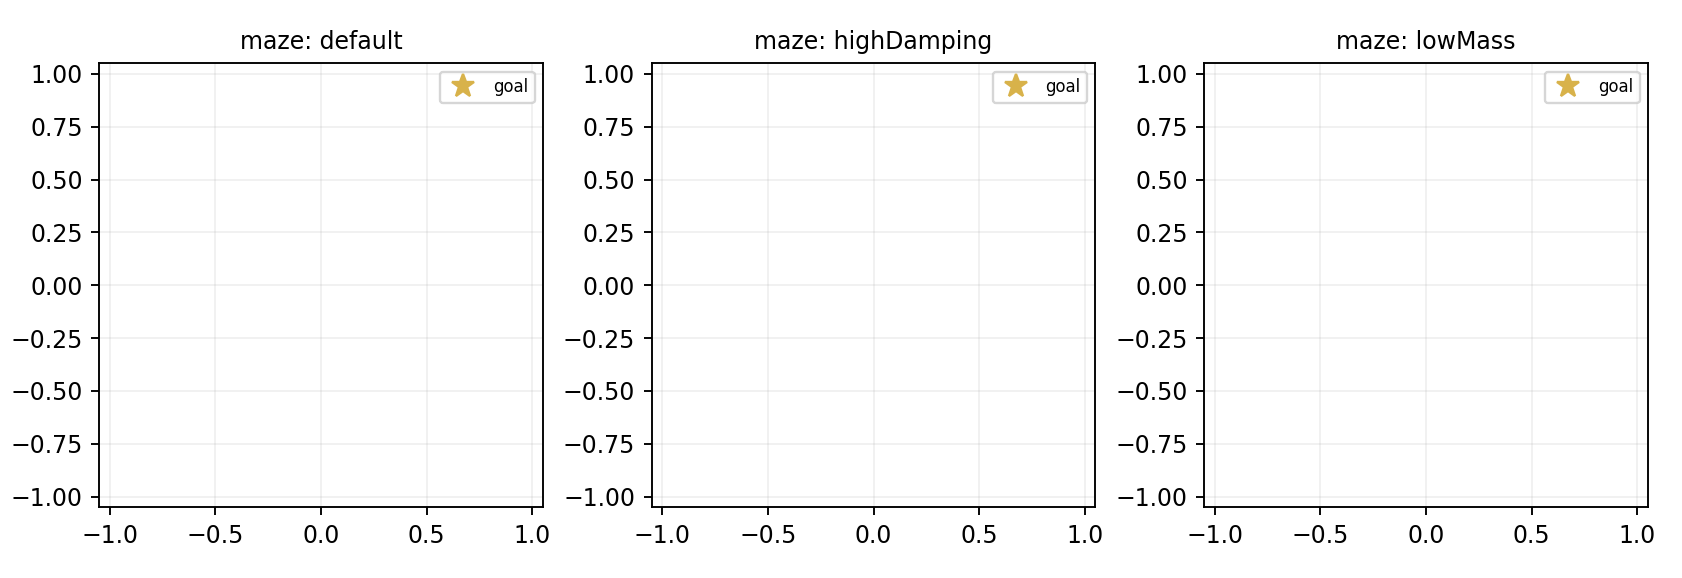
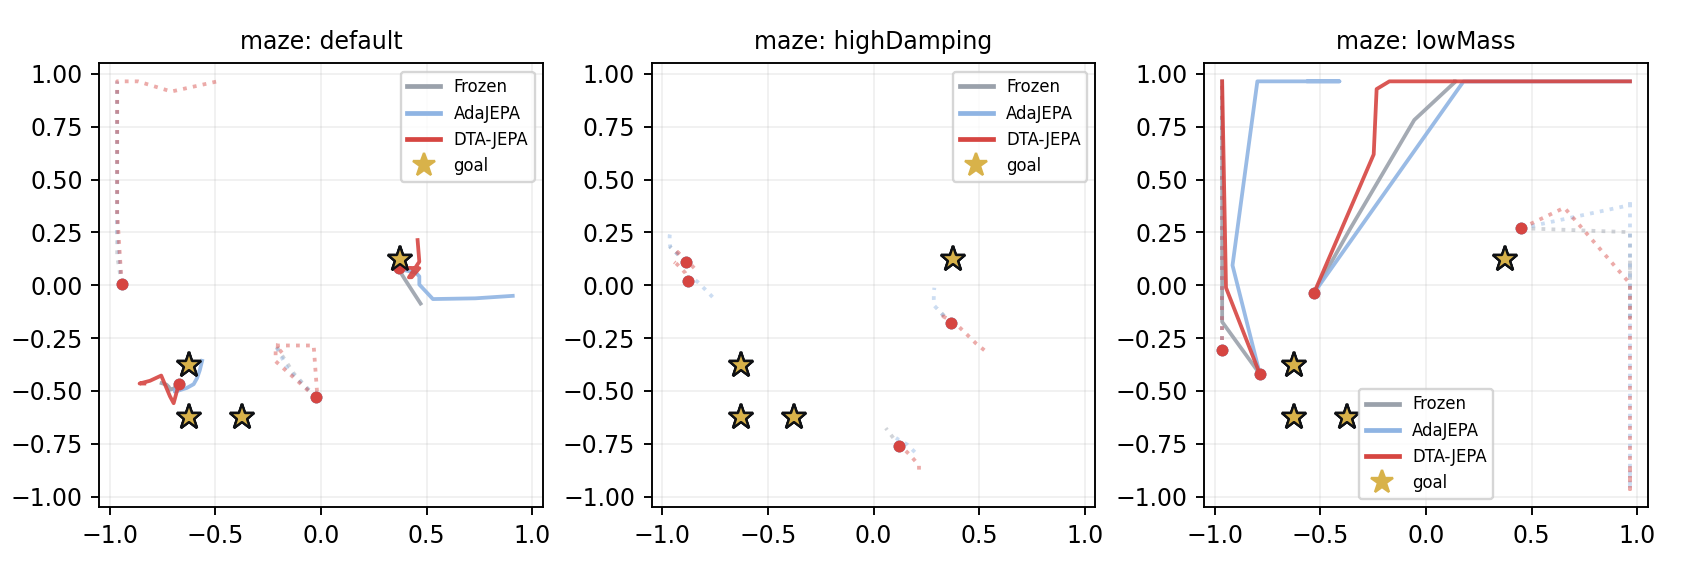
page: light palette by default with dark under prefers-color-scheme (matches reference); fix traj figure method parsing; note the genuine zero category

diff --git a/docs/index.html b/docs/index.html
@@ -6,21 +6,24 @@
 <title>DTA-JEPA · Dual-Timescale Recursive Adaptive Latent World Models</title>
 <meta name="description" content="Uncertainty-allocated test-time adaptation for latent world models, with persistent memory and a safety layer.">
 <style>
-:root{--bg:#0f1114;--panel:#16191d;--panel2:#16191d;--ink:#eceef1;--muted:#9aa1ab;
---line:#282d34;--accent:#8fb4e3;--accent-ink:#0f1114;--soft:#17212c;
---shadow:0 18px 40px rgba(0,0,0,.5);
+:root{--bg:#f4f4f2;--panel:#fdfdfc;--panel2:#fdfdfc;--ink:#15171b;--muted:#575c65;
+--line:#dcdcd6;--accent:#1d4e89;--accent-ink:#f4f4f2;--soft:#e9eef4;
+--shadow:0 18px 40px rgba(21,23,27,.08);
 --sans:-apple-system,BlinkMacSystemFont,"Segoe UI",Roboto,"Helvetica Neue",Arial,sans-serif;
 --serif:"Iowan Old Style",Palatino,"Palatino Linotype",Georgia,serif;
 --mono:ui-monospace,SFMono-Regular,Menlo,Consolas,monospace;
 /* aliases used by the rest of this sheet */
 --fg:var(--ink);--dim:var(--muted);--acc:var(--accent);--acc2:var(--accent);--ok:var(--accent);}
+@media (prefers-color-scheme: dark){:root{--bg:#0f1114;--panel:#16191d;--panel2:#16191d;
+--ink:#eceef1;--muted:#9aa1ab;--line:#282d34;--accent:#8fb4e3;--accent-ink:#0f1114;
+--soft:#17212c;--shadow:0 18px 40px rgba(0,0,0,.5);}}
 *{box-sizing:border-box}
 body{margin:0;background:var(--bg);color:var(--ink);font-family:var(--sans);
 font-size:16.5px;line-height:1.62;-webkit-font-smoothing:antialiased}
 a{color:var(--accent);text-decoration:none;border-bottom:1px solid rgba(143,180,227,.35)}
 a:hover{color:var(--ink);border-bottom-color:var(--accent)}
 header{padding:56px 24px 32px;border-bottom:1px solid var(--line);
-background:radial-gradient(900px 320px at 18% -12%,#17212c 0%,var(--bg) 72%)}
+background:radial-gradient(900px 320px at 18% -12%,var(--soft) 0%,var(--bg) 72%)}
 .wrap{max-width:1120px;margin:0 auto}
 h1{font-family:var(--serif);font-size:33px;line-height:1.22;margin:0 0 8px;letter-spacing:-.01em}
 h2{font-family:var(--serif);font-size:22px;font-weight:600;margin:44px 0 12px;
@@ -39,7 +42,7 @@ th,td{padding:9px 12px;text-align:center;border-bottom:1px solid var(--line)}
 thead th{background:var(--soft);color:var(--ink);font-weight:600;font-size:13px;
 letter-spacing:.02em;text-transform:uppercase}
 tbody th{text-align:left;color:var(--ink);font-weight:500}
-td.hl,tbody th.hl{color:var(--accent);background:var(--soft);font-weight:600}
+td.hl,tbody th.hl{color:var(--accent);background:var(--soft);font-weight:700}
 figure{margin:22px 0} img{width:100%;border-radius:10px;border:1px solid var(--line);
 background:#fff;box-shadow:var(--shadow)}
 figcaption{color:var(--muted);font-size:13px;margin-top:8px}
@@ -113,7 +116,7 @@ conditions of each shift family.</p>
 (seen/unseen shapes, corruptions, colour shifts, dynamics shifts, unseen mazes).</figcaption></figure>
 
 <figure><img src="figs/fig_bars.png" alt="per-condition bars">
-<figcaption>Final success per condition, mean ± s.d. over seeds.</figcaption></figure>
+<figcaption>Final success per condition, mean ± s.d. over seeds. Empty categories are genuine zeros: no method reached the goal in the <code>highDamping</code> (damping &times;20) maze within the replanning budget.</figcaption></figure>
 
 <h3>Seen versus unseen geometries</h3>
 <table><thead><tr><th></th><th>seen</th><th>unseen</th></tr></thead><tbody><tr><th scope="row">AdaJEPA</th><td>31.2</td><td>45.8</td></tr><tr><th scope="row">DTA-JEPA</th><td class="hl">28.1</td><td class="hl">38.9</td></tr><tr><th scope="row">Frozen</th><td>27.1</td><td>38.9</td></tr></tbody></table>

diff --git a/dtajepa/site.py b/dtajepa/site.py
@@ -8,6 +8,8 @@ import json
 import os
 import shutil
 
+import numpy as np
+
 import pandas as pd
 
 ROOT = os.path.dirname(os.path.dirname(os.path.abspath(__file__)))
@@ -165,7 +167,8 @@ def traj_figures(outdir):
         files = sorted(glob.glob(os.path.join(RES, "traj", f"{kind}_*_*.npz")))
         if not files:
             continue
-        labels = [os.path.basename(f).replace(f"{kind}_", "").rsplit("_", 1) for f in files]
+        labels = [os.path.splitext(os.path.basename(f))[0].replace(f"{kind}_", "").rsplit("_", 1)
+                  for f in files]
         conds = sorted({a for a, _ in labels})
         methods = [m for m in ("frozen", "adajepa", "dtajepa") if any(b == m for _, b in labels)]
         fig, axes = plt.subplots(1, min(4, len(conds)), figsize=(3.3 * min(4, len(conds)), 3.4),
@@ -283,21 +286,24 @@ def main():
 <title>DTA-JEPA · Dual-Timescale Recursive Adaptive Latent World Models</title>
 <meta name="description" content="Uncertainty-allocated test-time adaptation for latent world models, with persistent memory and a safety layer.">
 <style>
-:root{{--bg:#0f1114;--panel:#16191d;--panel2:#16191d;--ink:#eceef1;--muted:#9aa1ab;
---line:#282d34;--accent:#8fb4e3;--accent-ink:#0f1114;--soft:#17212c;
---shadow:0 18px 40px rgba(0,0,0,.5);
+:root{{--bg:#f4f4f2;--panel:#fdfdfc;--panel2:#fdfdfc;--ink:#15171b;--muted:#575c65;
+--line:#dcdcd6;--accent:#1d4e89;--accent-ink:#f4f4f2;--soft:#e9eef4;
+--shadow:0 18px 40px rgba(21,23,27,.08);
 --sans:-apple-system,BlinkMacSystemFont,"Segoe UI",Roboto,"Helvetica Neue",Arial,sans-serif;
 --serif:"Iowan Old Style",Palatino,"Palatino Linotype",Georgia,serif;
 --mono:ui-monospace,SFMono-Regular,Menlo,Consolas,monospace;
 /* aliases used by the rest of this sheet */
 --fg:var(--ink);--dim:var(--muted);--acc:var(--accent);--acc2:var(--accent);--ok:var(--accent);}}
+@media (prefers-color-scheme: dark){{:root{{--bg:#0f1114;--panel:#16191d;--panel2:#16191d;
+--ink:#eceef1;--muted:#9aa1ab;--line:#282d34;--accent:#8fb4e3;--accent-ink:#0f1114;
+--soft:#17212c;--shadow:0 18px 40px rgba(0,0,0,.5);}}}}
 *{{box-sizing:border-box}}
 body{{margin:0;background:var(--bg);color:var(--ink);font-family:var(--sans);
 font-size:16.5px;line-height:1.62;-webkit-font-smoothing:antialiased}}
 a{{color:var(--accent);text-decoration:none;border-bottom:1px solid rgba(143,180,227,.35)}}
 a:hover{{color:var(--ink);border-bottom-color:var(--accent)}}
 header{{padding:56px 24px 32px;border-bottom:1px solid var(--line);
-background:radial-gradient(900px 320px at 18% -12%,#17212c 0%,var(--bg) 72%)}}
+background:radial-gradient(900px 320px at 18% -12%,var(--soft) 0%,var(--bg) 72%)}}
 .wrap{{max-width:1120px;margin:0 auto}}
 h1{{font-family:var(--serif);font-size:33px;line-height:1.22;margin:0 0 8px;letter-spacing:-.01em}}
 h2{{font-family:var(--serif);font-size:22px;font-weight:600;margin:44px 0 12px;
@@ -316,7 +322,7 @@ th,td{{padding:9px 12px;text-align:center;border-bottom:1px solid var(--line)}}
 thead th{{background:var(--soft);color:var(--ink);font-weight:600;font-size:13px;
 letter-spacing:.02em;text-transform:uppercase}}
 tbody th{{text-align:left;color:var(--ink);font-weight:500}}
-td.hl,tbody th.hl{{color:var(--accent);background:var(--soft);font-weight:600}}
+td.hl,tbody th.hl{{color:var(--accent);background:var(--soft);font-weight:700}}
 figure{{margin:22px 0}} img{{width:100%;border-radius:10px;border:1px solid var(--line);
 background:#fff;box-shadow:var(--shadow)}}
 figcaption{{color:var(--muted);font-size:13px;margin-top:8px}}
@@ -390,7 +396,7 @@ conditions of each shift family.</p>
 (seen/unseen shapes, corruptions, colour shifts, dynamics shifts, unseen mazes).</figcaption></figure>
 
 <figure><img src="figs/fig_bars.png" alt="per-condition bars">
-<figcaption>Final success per condition, mean ± s.d. over seeds.</figcaption></figure>
+<figcaption>Final success per condition, mean ± s.d. over seeds. Empty categories are genuine zeros: no method reached the goal in the <code>highDamping</code> (damping &times;20) maze within the replanning budget.</figcaption></figure>
 
 <h3>Seen versus unseen geometries</h3>
 {seen_tbl if seen_tbl else ''}
